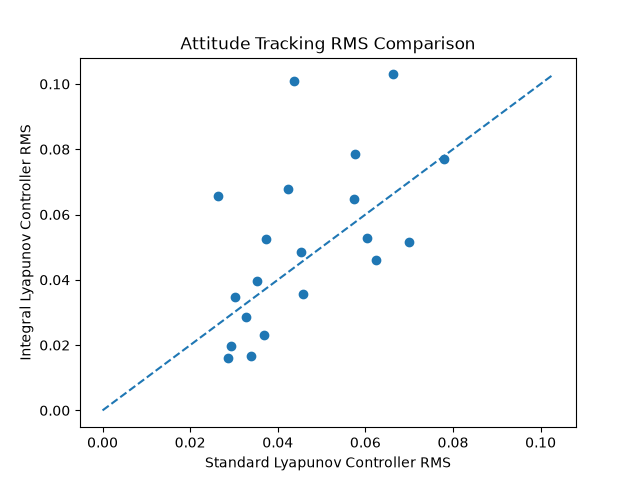
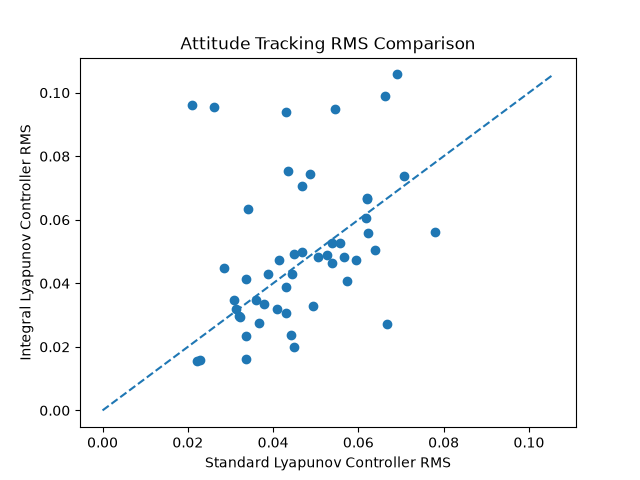
update

diff --git a/experiments/lyapunov_controller/monte_carlo_performance_comparison/monte_carlo_simulation.py b/experiments/lyapunov_controller/monte_carlo_performance_comparison/monte_carlo_simulation.py
@@ -147,7 +147,7 @@ def simulate_integral_controller(K, P, KI):
 
 
 # monte carlo simulation
-num_simulations = 20
+num_simulations = 50
 steady_state_start = 250.0
 standard_sigma_rms_history = np.zeros(num_simulations)
 standard_omega_rms_history = np.zeros(num_simulations)
